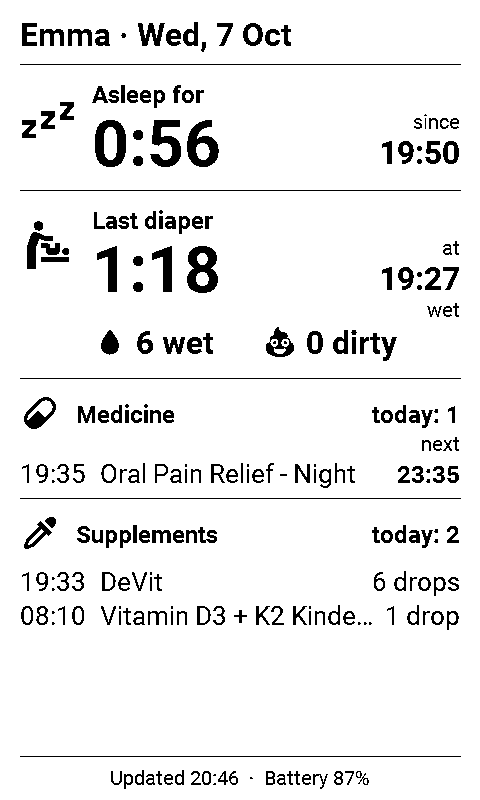
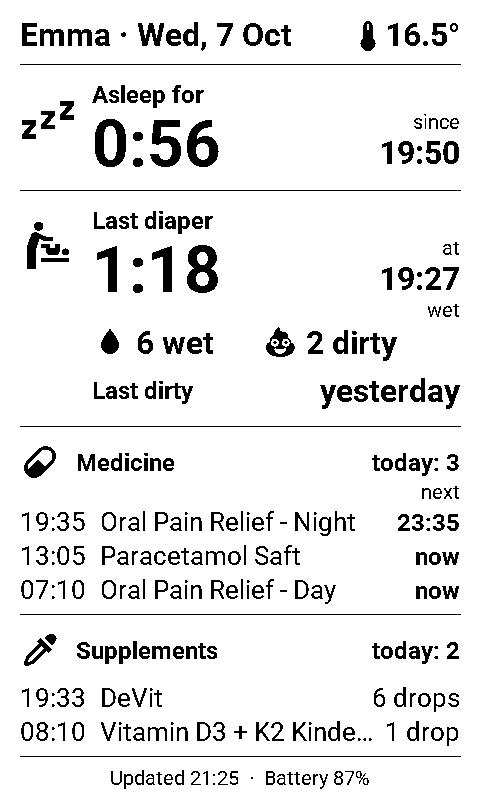
Render the previews on a PC; lists stop above the footer in portrait
scripts/screenshots.sh builds the page code from display.yaml for the
ESPHome host platform with SDL and made-up values. Rendering the new
Last dirty line showed that a longer supplement list in portrait ran
into the footer; both lists now take only the lines that fit.

diff --git a/README.md b/README.md
@@ -204,6 +204,7 @@ esphome/
   xteink-x4.yaml              # device config, wake cycle, deep sleep
   xteink_x4_partitions.csv    # 16 MB flash layout
   secrets.example.yaml
+  screenshot-demo.yaml        # the page on a PC (SDL, made-up values) for the previews
   xteink_x4_modules/
     display.yaml              # the page (lambda)
     fonts.yaml / images.yaml  # Roboto, Material Design Icons
@@ -214,6 +215,8 @@ esphome/
     power.h                   # power latch and switching off, SD card idle, time to the next wake
 packages/
   xteink_x4.yaml              # everything on the Home Assistant side
+scripts/
+  screenshots.sh              # renders docs/preview*.png
 docs/
   preview.png / preview-landscape.png / footer-states.png
 ```
@@ -228,6 +231,12 @@ without a device:
 ```bash
 esphome config esphome/xteink-x4.yaml
 ```
+
+The previews in this README come from the device's own page code: on
+Linux (ESPHome, `libsdl2-dev`, `xvfb`, `imagemagick`),
+`bash scripts/screenshots.sh` builds `esphome/screenshot-demo.yaml` for the
+PC with made-up values and saves `docs/preview-landscape.png` and
+`docs/preview.png`. Run it after every change to the page.
 
 ## License
 

diff --git a/CHANGELOG.md b/CHANGELOG.md
@@ -7,6 +7,12 @@ All notable changes, newest first. Versions follow [semantic versioning](https:/
 ### Added
 - **Last dirty diaper** under the wet/dirty counts: *today 14:20*, *yesterday* or *3 days ago* (dirty or wet + dirty). New package sensor `sensor.xteink_x4_dirty_diaper` from the integration's *Last dirty diaper*. **Needs the Sprout Track integration v0.6.0**, the new package and new firmware; in portrait the medicine and supplement lists move down a line.
 
+### Fixed
+- **Portrait: a long supplement list ran into the footer.** Both lists now show only as many lines as fit above the footer (with room for the "…" when some are left out), in portrait as in landscape.
+
+### Under the hood
+- `scripts/screenshots.sh` renders the README previews on a PC from the device's own page code (`esphome/screenshot-demo.yaml`, ESPHome host + SDL, made-up values); previews updated.
+
 ## v0.6.1 — 2026-11-14
 
 ### Fixed
